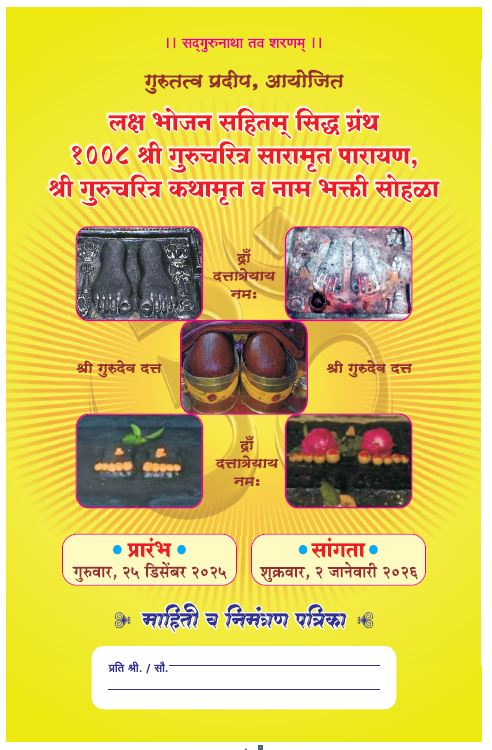
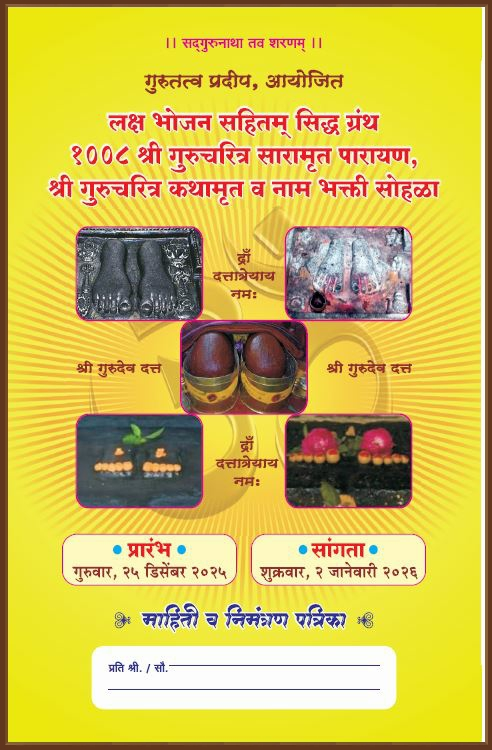
Additional Registration Menu and Gangapur event image added

Changed region(s): [[0.0, 0.0, 1.0, 1.0]]

diff --git a/registrations.html b/registrations.html
@@ -41,22 +41,28 @@ window.dataLayer = window.dataLayer || [];
 				<img src="images/Registration-Icon-40x40.png" alt="Granth Vachan Registration">
 				<span>ग्रंथ वाचन नोंदणी </span>
 			</a>
+			
+			
 			<a href="https://anvaybk.github.io/gurucharitra/pages/saptahikparayan.html" class="menu-item">
 				<img src="images/Registration-Icon-40x40.png" alt="Saptahik Parayan Registration">
 				<span>साप्ताहिक पारायण नोंदणी</span>
-			</a>
-			<a href="https://anvaybk.github.io/gurucharitra/pages/sangeetsevaparayan.html" class="menu-item">
+			 </a> 
+			 
+			<!-- <a href="https://anvaybk.github.io/gurucharitra/pages/sangeetsevaparayan.html" class="menu-item">
 				<img src="images/Registration-Icon-40x40.png" alt="Sevanand Sangget Sabha Registration">
 				<span>सेवानंद संगीत सभा नोंदणी</span>
-			</a>
-			<a href="https://anvaybk.github.io/gurucharitra/pages/visheshsevaparayan.html" class="menu-item">
+			</a> -->
+			
+			<!-- <a href="https://anvaybk.github.io/gurucharitra/pages/visheshsevaparayan.html" class="menu-item">
 				<img src="images/Registration-Icon-40x40.png" alt="Vishesh Seva Registration">
 				<span>विशेष सेवा नोंदणी</span>
-			</a>
-			<a href="https://anvaybk.github.io/gurucharitra/pages/kathamrutnondani.html" class="menu-item">
+			</a> -->
+			
+			<!-- <a href="https://anvaybk.github.io/gurucharitra/pages/kathamrutnondani.html" class="menu-item">
 				<img src="images/Registration-Icon-40x40.png" alt="Kathamrut Nondani Registration">
 				<span>गुरुचरित्र कथामृत नोंदणी</span>
-			</a>
+			</a> -->
+			
 			<a href="https://anvaybk.github.io/gurucharitra/pages/namjapsadhana.html" class="menu-item">
 				<img src="images/Registration-Icon-40x40.png" alt="Nam Jap Sadhana Nondani">
 				<span>नामजप साधना नोंदणी </span>

diff --git a/pages/annualevents.html b/pages/annualevents.html
@@ -78,8 +78,8 @@
                      <td>1008 श्रीगुरुचरित्र पारायण </td>
                      <td> गाणगापूर </td>
 		     <td> <ul class="social-icons">
-		    <a href="https://anvaybk.github.io/gurucharitra/images/2025-Dec-Jan-2026-1008-Parayan-Gangapur.jpg" target="_blank">
-		    <img src="https://anvaybk.github.io/gurucharitra/images/2025-Dec-Jan-2026-1008-Parayan-Gangapur.pdf" alt="2025 Gangapur Parayan"></a> </ul> </td>
+		    <a href="https://anvaybk.github.io/gurucharitra/images/2025-Dec-Jan-2026-1008-Parayan-Gangapur.pdf" target="_blank">
+		    <img src="https://anvaybk.github.io/gurucharitra/images/2025-Dec-Jan-2026-1008-Parayan-Gangapur.jpg" alt="2025 Gangapur Parayan"></a> </ul> </td>
         </tr>
 		
 		

diff --git a/nityapathhome.html b/nityapathhome.html
@@ -97,6 +97,11 @@ window.dataLayer = window.dataLayer || [];
 				<span> १०. श्री नर्मदाष्टक स्तोत्र</span>
 			</a>
 			
+			<a href="https://anvaybk.github.io/gurucharitra/pages/nityapath-bhiksha1.html" class="menu-item">  
+				<img src="images/Nitya-Path-Datta-Icon-60x60.png" alt="Nitya Path Datta"> 
+				<span> १०. आदीशक्तीचे कौतुक मोठे</span>
+			</a>
+			
 			<a href="https://anvaybk.github.io/gurucharitra/pages/nityapath11.html" class="menu-item">  
 				<img src="images/Nitya-Path-Datta-Icon-60x60.png" alt="Nitya Path Datta"> 
 				<span> ११. श्री गुरुग्रंथाची आरती </span>
